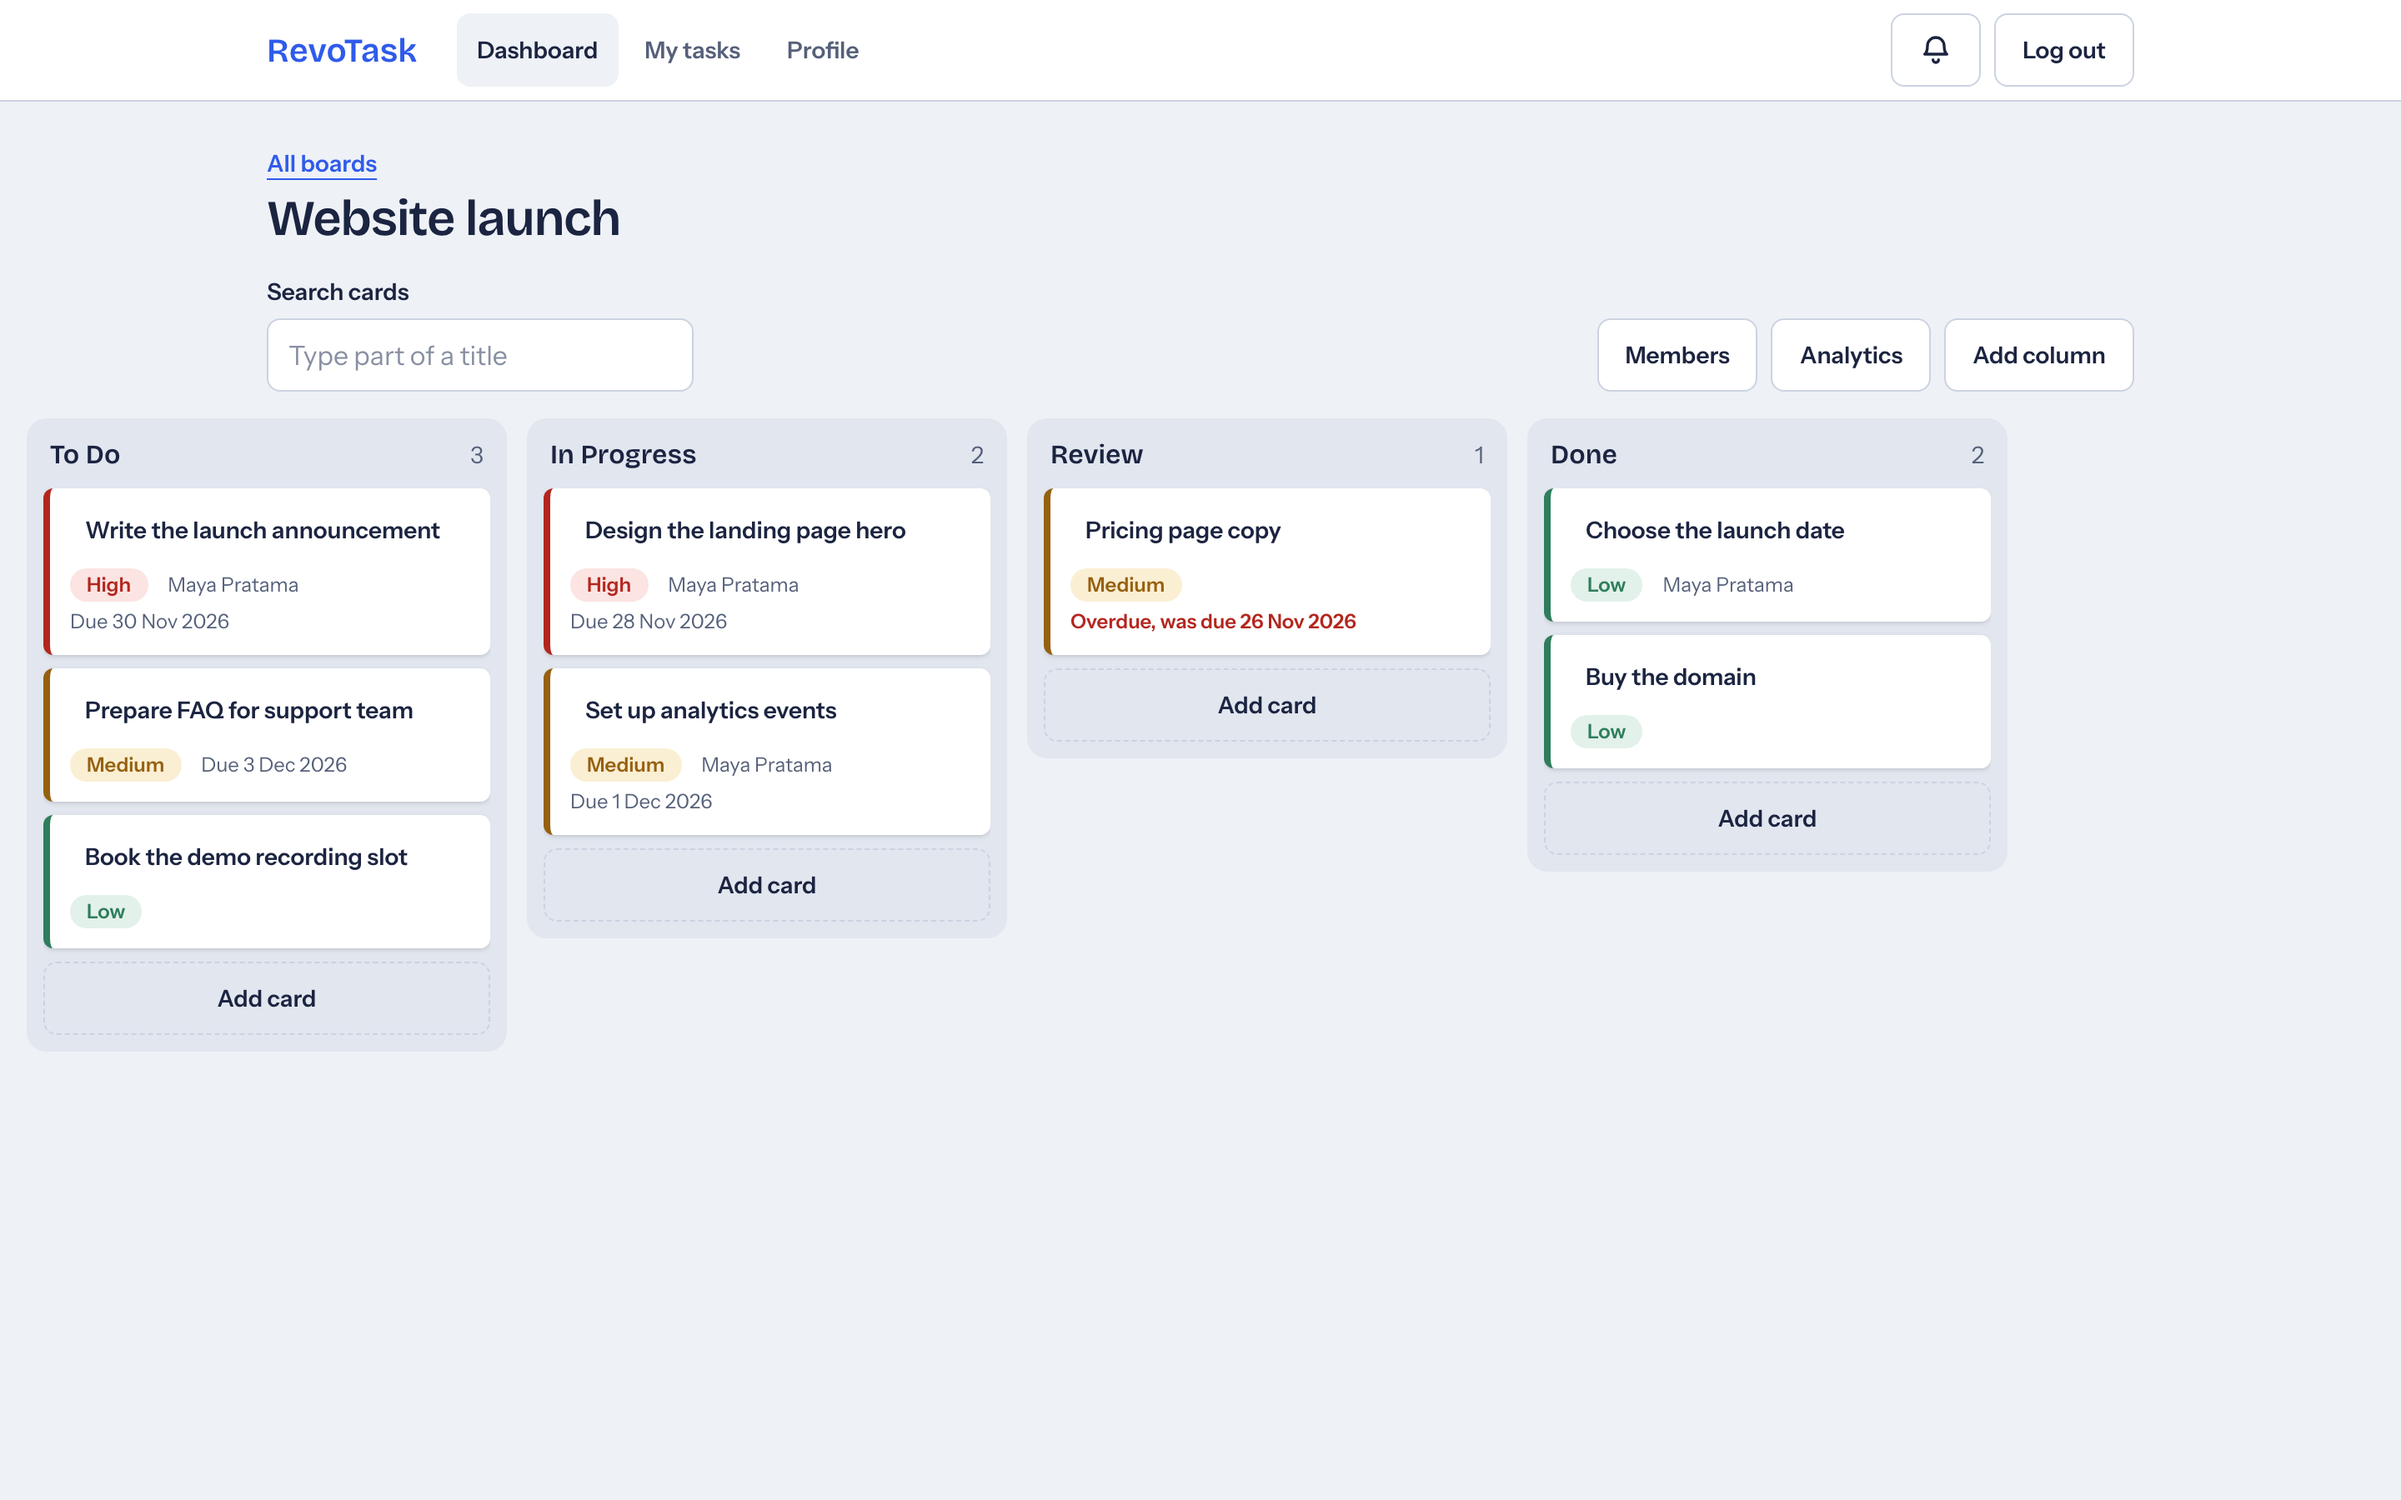
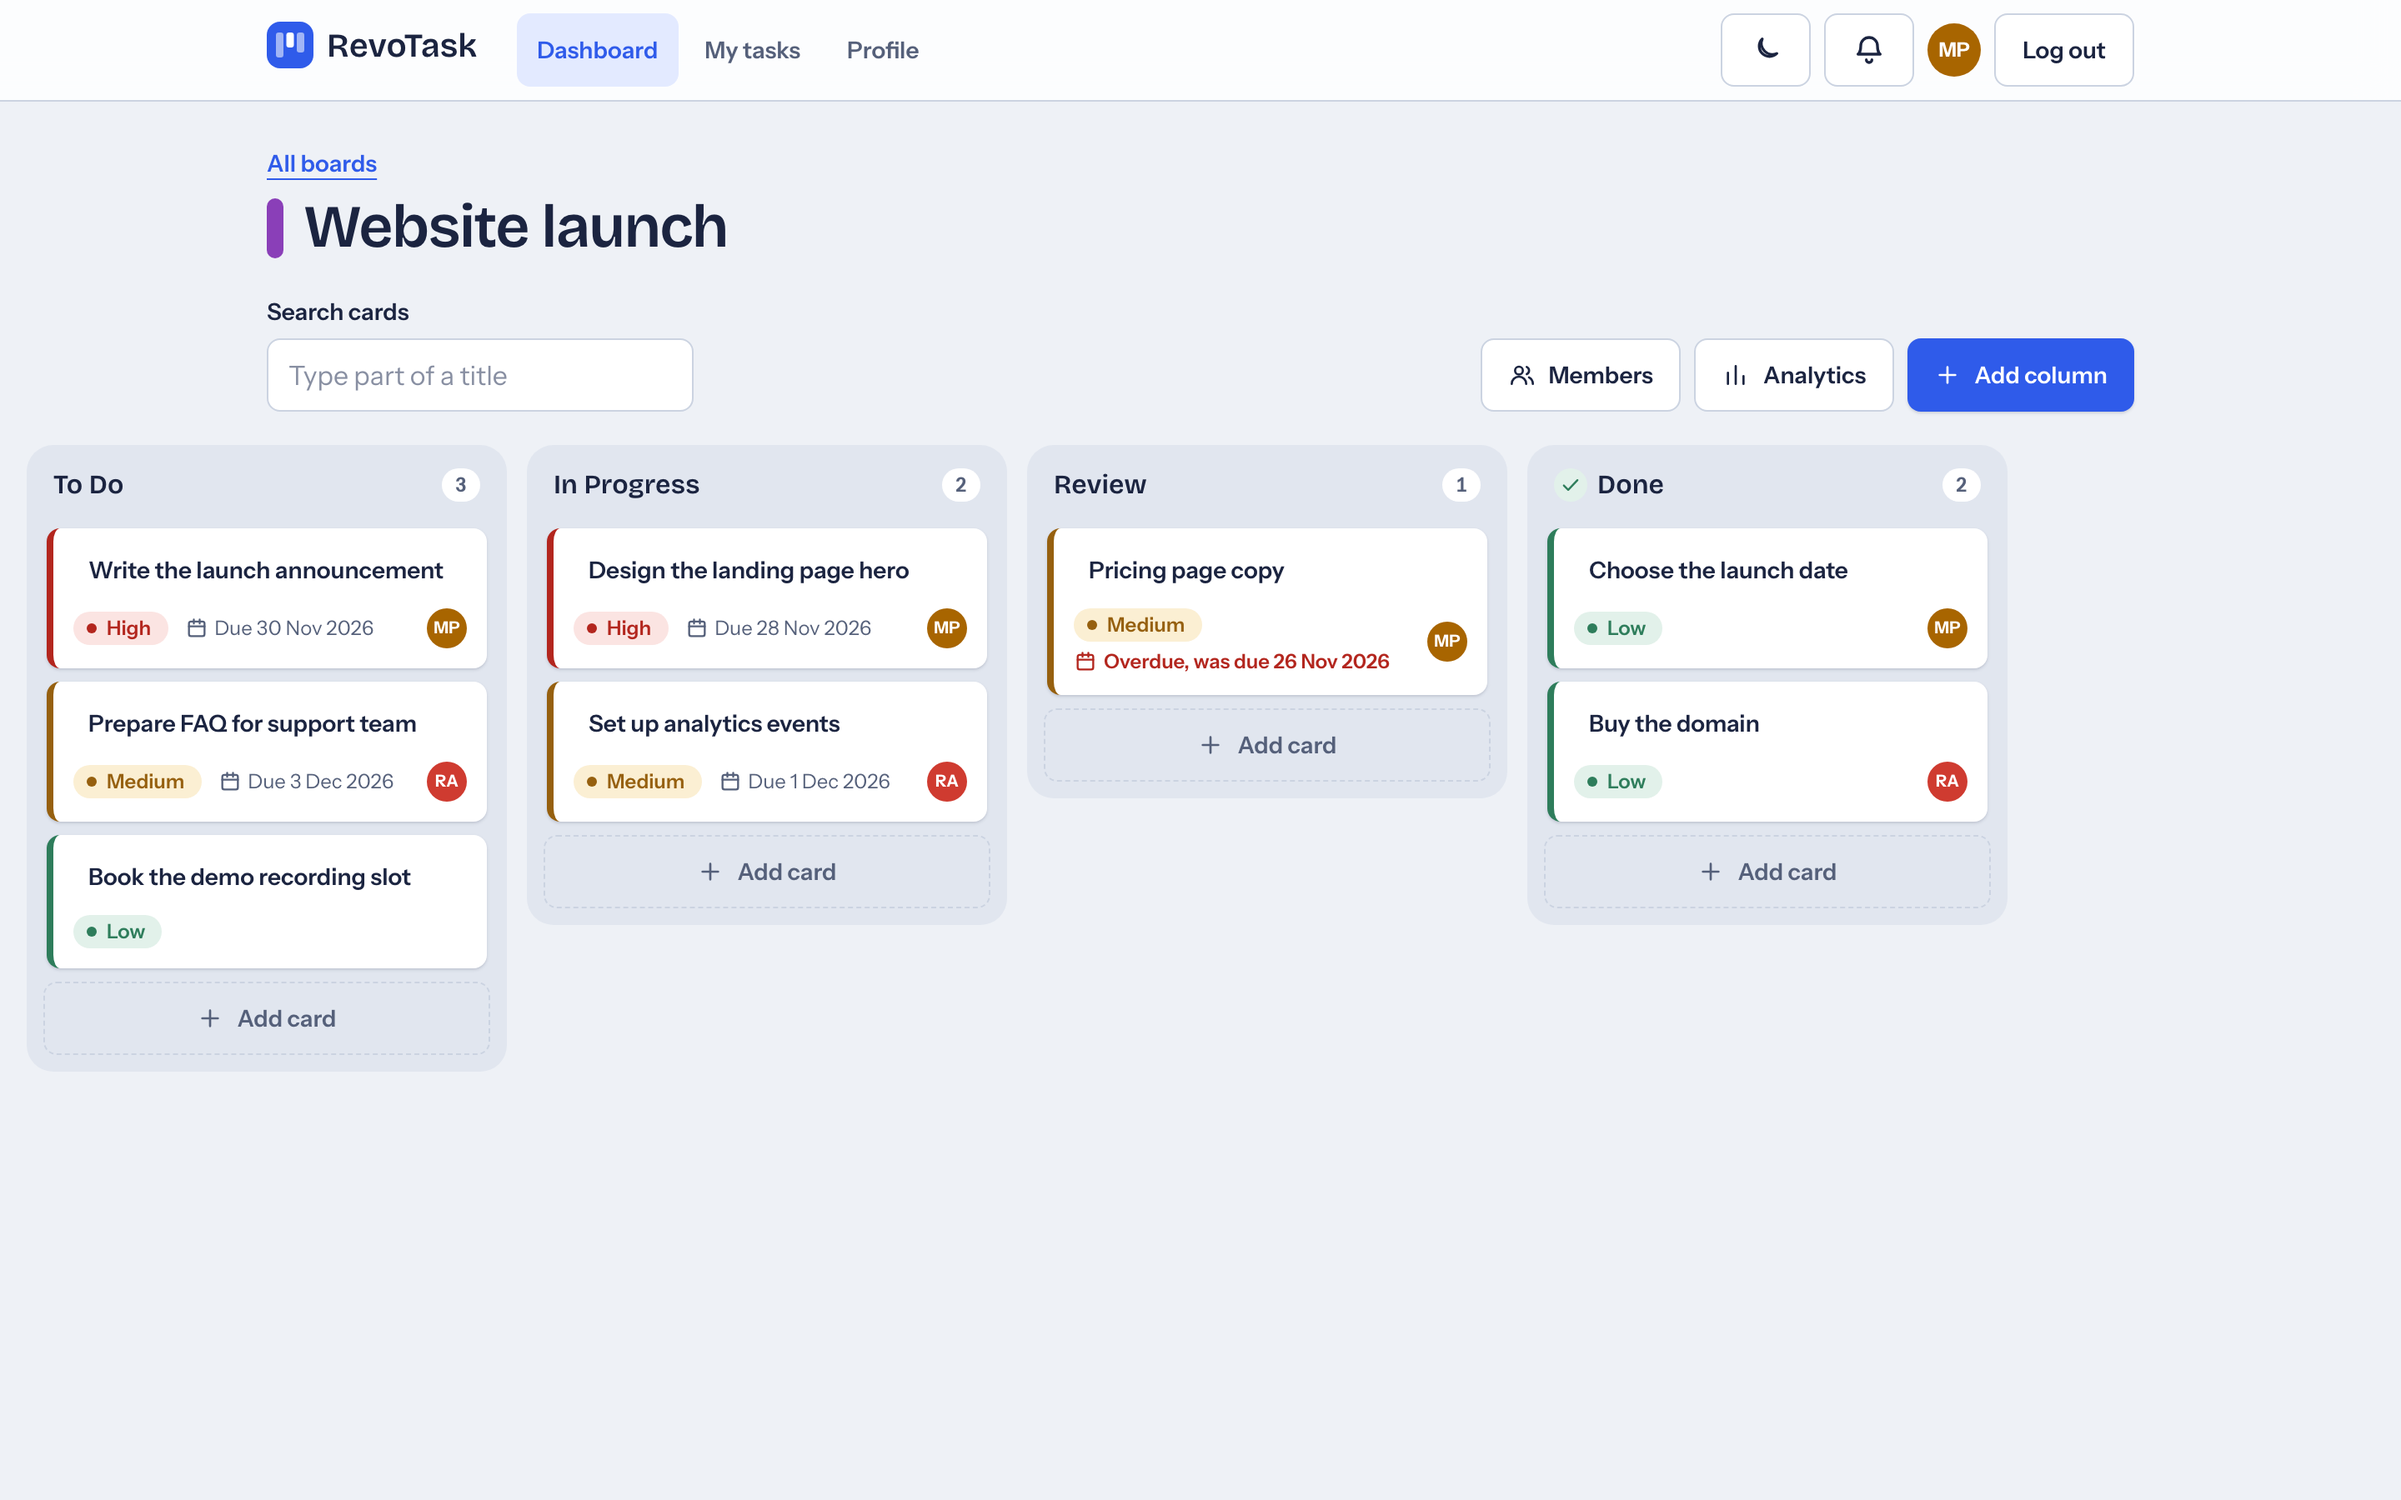
docs: refresh screenshots and live test report after the visual upgrade

diff --git a/frontend/playwright-report/index.html b/frontend/playwright-report/index.html
@@ -46,4 +46,4 @@ Error generating stack: `+e.message+`
     <div id='root'></div>
   </body>
 </html>
[2 lines of base64/hex data omitted]

diff --git a/README.md b/README.md
@@ -16,13 +16,17 @@ Both run on Vercel in the Singapore region. The database is PostgreSQL on Neon, 
 | --- | --- |
 | ![Kanban board](docs/screenshots/03-kanban-board.png) | ![Card details](docs/screenshots/04-card-details.png) |
 
+| Dark theme | A card being dragged |
+| --- | --- |
+| ![Board in the dark theme](docs/screenshots/08-dark-board.png) | ![A card in mid-drag, with the target column and landing line marked](docs/screenshots/09-dragging.png) |
+
 | Dashboard | My tasks |
 | --- | --- |
 | ![Dashboard](docs/screenshots/02-dashboard.png) | ![My tasks](docs/screenshots/05-my-tasks.png) |
 
 | Login | Board on a 375 px phone |
 | --- | --- |
-| ![Login](docs/screenshots/01-login.png) | <img src="docs/screenshots/06-mobile-board.png" alt="Board on a phone" width="260"> |
+| ![Login](docs/screenshots/01-login.png) | <img src="docs/screenshots/06-mobile-board.png" alt="Board on a phone" width="200"> <img src="docs/screenshots/10-dark-mobile.png" alt="Board on a phone, dark theme" width="200"> |
 
 ## Features
 
